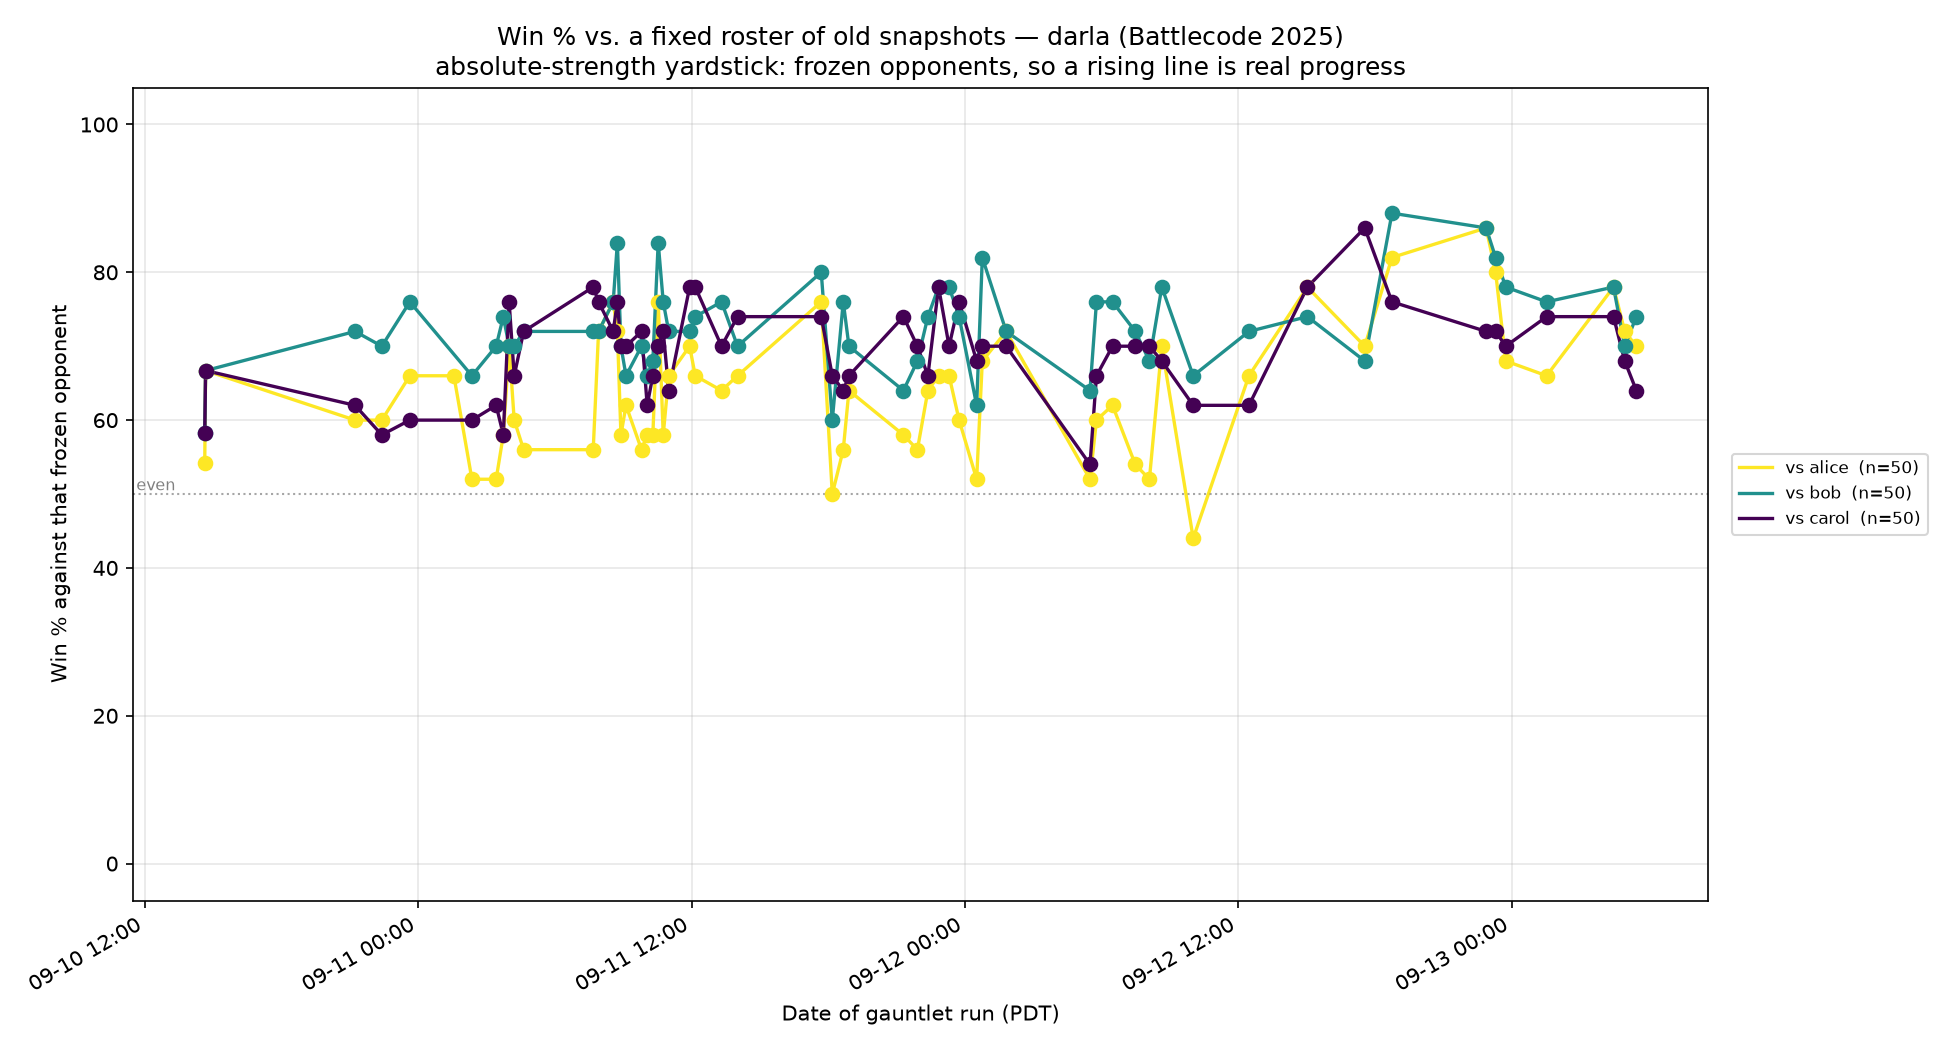
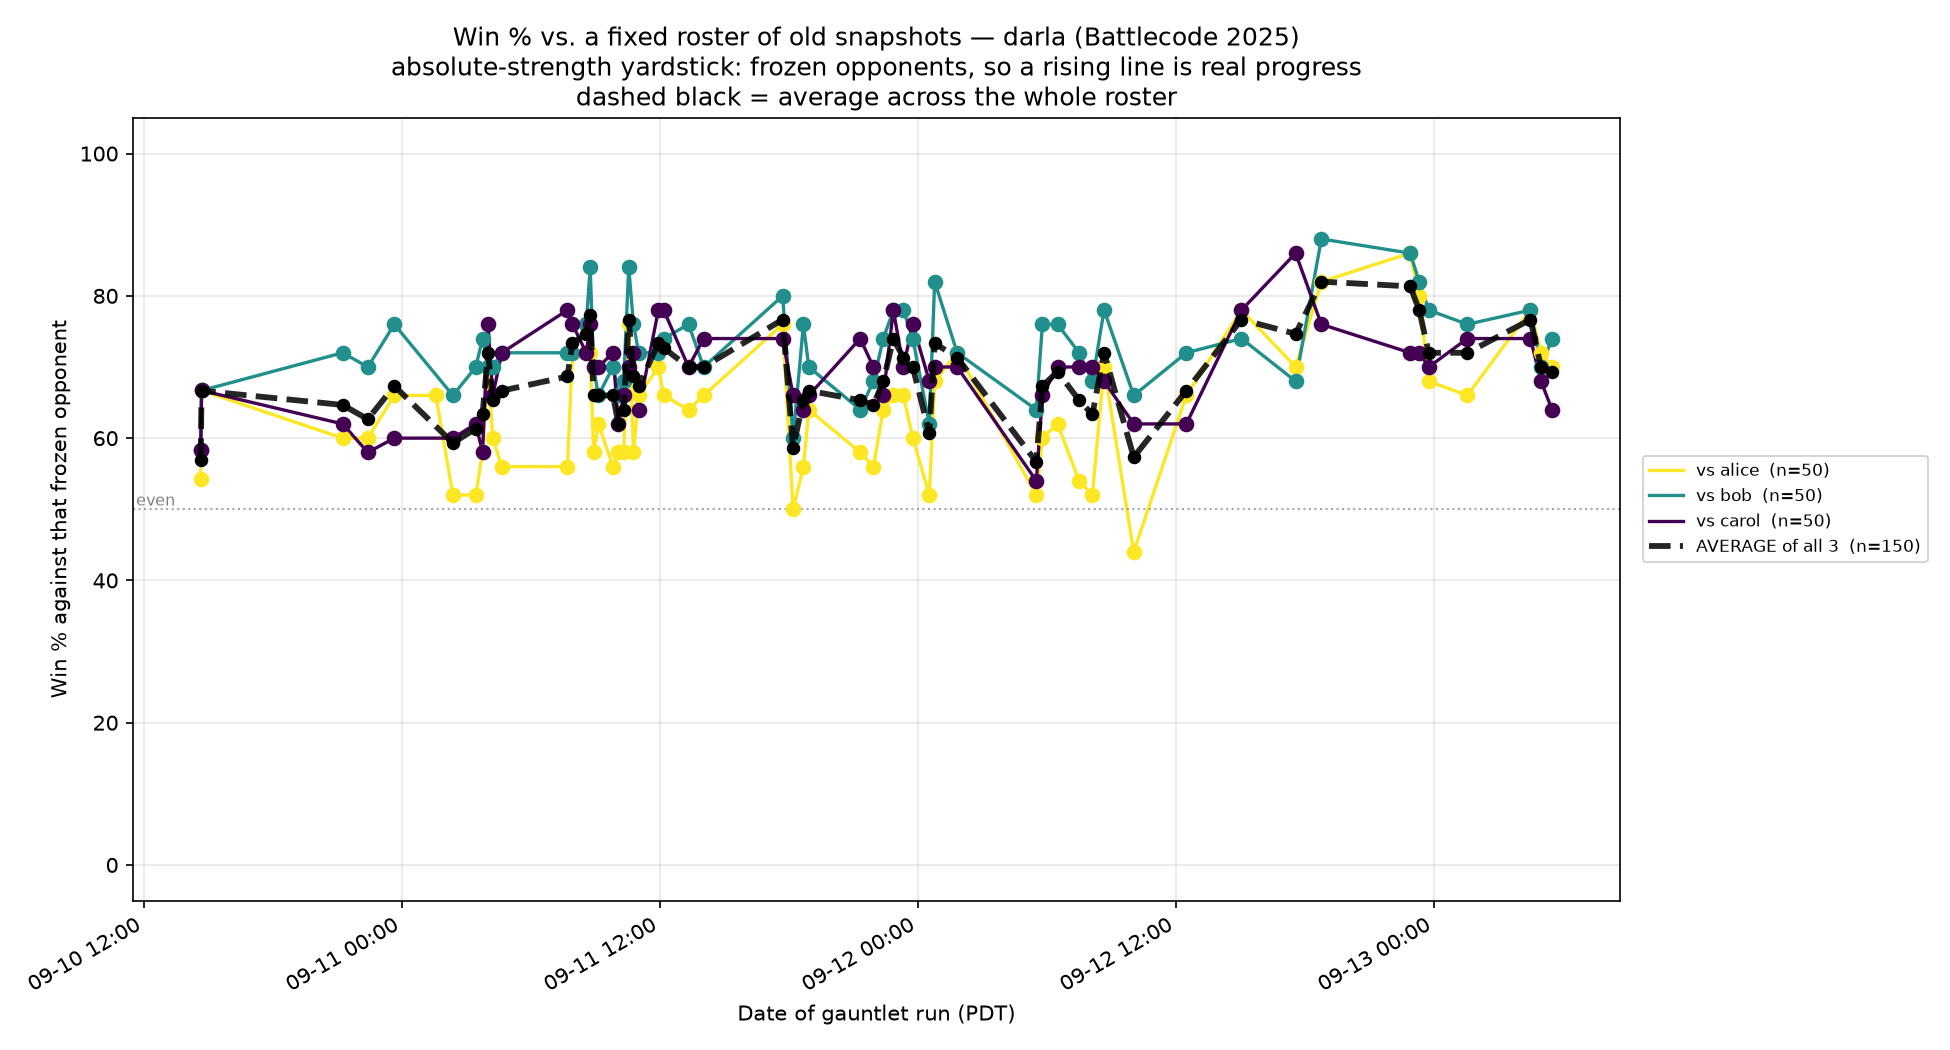
vs-old-bots chart: add a roster-average line
Owner request. One number per run for "how is the bot doing overall", which the
per-opponent lines cannot show -- they cross constantly, so which one is on top
tracks the opponent rather than the bot.

Only dates where EVERY tracked opponent was measured are averaged. A date missing
an opponent would move the line by changing its composition rather than the
bot's strength, which is the artifact this whole chart exists to avoid; the one
incomplete date in darla's history (the first, alice-only) is skipped and the
skip is reported on stdout.

Games-weighted rather than a plain mean of the three percentages, so it stays
correct if a run ever measures different numbers of games per opponent. With
equal totals -- the normal case -- the two are identical.

Drawn dashed black above the coloured lines, with the same solid/hollow marker
convention: hollow if any opponent's point that date came from a backfilled run.

The script is shared, so alice, bob and carol get the same line whenever their
charts are next regenerated.

diff --git a/tools/plot_vs_old_bots.py b/tools/plot_vs_old_bots.py
@@ -92,12 +92,51 @@ def main():
             ax.annotate("single measurement", pts[0][:2], textcoords="offset points",
                         xytext=(6, 6), fontsize=7, color=color)
 
+    # ---- the roster average -------------------------------------------------
+    # One number per run for "how is the bot doing overall", which the per-opponent
+    # lines cannot show: they cross, and which one is on top changes with the
+    # opponent rather than with the bot. Only dates where EVERY tracked opponent
+    # was measured are averaged -- a date missing an opponent would move this line
+    # by changing the composition rather than the strength, which is exactly the
+    # artifact the whole chart exists to avoid.
+    by_date = defaultdict(list)
+    for opp, pts in by_opp.items():
+        for dt, pct, wins, total, source in pts:
+            by_date[dt].append((opp, pct, wins, total, source))
+    full = {dt: v for dt, v in by_date.items() if len(v) == len(order)}
+    skipped = len(by_date) - len(full)
+    if len(full) >= 2:
+        avg_dates = sorted(full)
+        # Games-weighted, so the line stays correct if a run ever measures
+        # different numbers of games per opponent. With equal totals -- the
+        # normal case -- this is identical to the mean of the three win rates.
+        avg_pcts = [100.0 * sum(x[2] for x in full[dt]) / max(1, sum(x[3] for x in full[dt]))
+                    for dt in avg_dates]
+        ax.plot(avg_dates, avg_pcts, linestyle="--", linewidth=2.8, color="black",
+                alpha=0.85, zorder=4,
+                label=f"AVERAGE of all {len(order)}  (n={sum(x[3] for x in full[avg_dates[-1]])})")
+        solid_avg = [(d, p) for d, p in zip(avg_dates, avg_pcts)
+                     if all(x[4] != "backfill" for x in full[d])]
+        hollow_avg = [(d, p) for d, p in zip(avg_dates, avg_pcts)
+                      if any(x[4] == "backfill" for x in full[d])]
+        if solid_avg:
+            ax.scatter([d for d, _ in solid_avg], [p for _, p in solid_avg],
+                       s=30, color="black", zorder=5)
+        if hollow_avg:
+            ax.scatter([d for d, _ in hollow_avg], [p for _, p in hollow_avg],
+                       s=30, facecolors="white", edgecolors="black",
+                       linewidths=1.4, zorder=5)
+        if skipped:
+            print(f"  average line: {len(full)} complete runs plotted, "
+                  f"{skipped} skipped for missing an opponent")
+
     ax.axhline(50, color="gray", linestyle=":", linewidth=1, alpha=0.7)
     ax.annotate("even", (0.002, 50), xycoords=("axes fraction", "data"),
                 fontsize=7.5, color="gray", va="bottom")
     ax.set_title(
         f"Win % vs. a fixed roster of old snapshots — {agent} (Battlecode 2025)\n"
-        "absolute-strength yardstick: frozen opponents, so a rising line is real progress",
+        "absolute-strength yardstick: frozen opponents, so a rising line is real progress\n"
+        "dashed black = average across the whole roster",
         fontsize=12)
     ax.set_xlabel(f"Date of gauntlet run ({pl.pacific_label()})")
     ax.set_ylabel("Win % against that frozen opponent")
